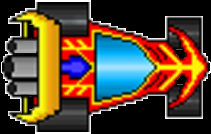
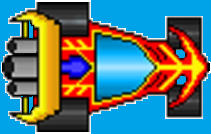
new cars images and change_password functionality

diff --git a/classes_menu.py b/classes_menu.py
@@ -283,7 +283,7 @@ class Exit:
 
 
 class Create_Account:
-    def __init__(self, diretorio, superficie):
+    def __init__(self, diretorio, superficie, change=False):
         self.image_nome = pygame.image.load(diretorio)
         self.effects = (False, True)
         self.efeito = [pygame.image.load(f"images/menu/effects/2/{i+1}.png") for i in range(4)]
@@ -294,12 +294,20 @@ class Create_Account:
         self.inputs = [[], []]
         self.frame_atual = 0
         self.user = User()
+        self.change = change
+        if change:
+            self.user.get_active_user()
 
     def draw_buttons(self) -> None:
         coordenadas = {0: (325, 485), 1: (558, 485)}
         coo = coordenadas[self.codigo_ativo_x]
         self.screen.blit(self.efeito[int(self.frame_atual)], (coo[0]-5, coo[1]-10))
-        self.screen.blit(pygame.image.load(f"images/menu/buttons/5/{self.codigo_ativo_x+1}.png"), (coo[0]+13, coo[1]+10))
+        if self.change:
+            self.screen.blit(pygame.image.load(f"images/menu/buttons/9/{self.codigo_ativo_x + 1}.png"),
+                             (coo[0] + 13, coo[1] + 10))
+        else:
+            self.screen.blit(pygame.image.load(f"images/menu/buttons/5/{self.codigo_ativo_x+1}.png"),
+                             (coo[0]+13, coo[1]+10))
         self.frame_atual += 0.2
         if self.frame_atual > 3:
             self.frame_atual = 0
@@ -326,19 +334,30 @@ class Create_Account:
         f.criar_pasta(name)
 
     def validate_user_information(self) -> bool:
-        name, password = "".join(self.inputs[0]), "".join(self.inputs[1])
-        if name in f.lista_utilizadores():
-            f.show_error_message(self.screen, 1)
-            return False
-        elif len(self.inputs[0]) == 0:
-            f.show_error_message(self.screen, 2)
-            return False
-        elif len(self.inputs[1]) == 0:
-            f.show_error_message(self.screen, 3)
-            return False
-        elif " " in self.inputs[0] or " " in self.inputs[1]:
-            f.show_error_message(self.screen, 4)
-            return False
+        first, second = "".join(self.inputs[0]), "".join(self.inputs[1])
+        if self.change:
+            if first != self.user.password:
+                f.show_error_message(self.screen, 7)
+                return False
+            elif len(self.inputs[1]) == 0:
+                f.show_error_message(self.screen, 3)
+                return False
+            elif " " in self.inputs[1]:
+                f.show_error_message(self.screen, 4)
+                return False
+        else:
+            if first in f.lista_utilizadores():
+                f.show_error_message(self.screen, 1)
+                return False
+            elif len(self.inputs[0]) == 0:
+                f.show_error_message(self.screen, 2)
+                return False
+            elif len(self.inputs[1]) == 0:
+                f.show_error_message(self.screen, 3)
+                return False
+            elif " " in self.inputs[0] or " " in self.inputs[1]:
+                f.show_error_message(self.screen, 4)
+                return False
         return True
 
     def manage_buttons(self, keys, event):
@@ -353,14 +372,22 @@ class Create_Account:
         elif keys[pygame.K_KP_ENTER] or keys[pygame.K_RETURN]:
             if self.effects[self.codigo_ativo_x]:
                 if self.validate_user_information():
-                    self.user.name = "".join(self.inputs[0])
-                    self.user.password = "".join(self.inputs[1])
-                    self.create_account()
-                    self.user.save_info()
-                    self.user.turn_active()
-                    f.show_succes_message(self.screen, 1)
+                    if self.change:
+                        self.user.password = "".join(self.inputs[1])
+                        self.user.save_info()
+                        self.user.turn_active()
+                        f.show_succes_message(self.screen, 4)
+                    else:
+                        self.user.name = "".join(self.inputs[0])
+                        self.user.password = "".join(self.inputs[1])
+                        self.create_account()
+                        self.user.save_info()
+                        self.user.turn_active()
+                        f.show_succes_message(self.screen, 1)
                     return True
                 else:
+                    if self.change:
+                        return "change_password"
                     return "new"
             return False
         elif keys[pygame.K_TAB]:
@@ -373,7 +400,7 @@ class Create_Account:
             self.inputs[self.codigo_ativo_y].append(event.unicode)
 
     def refresh(self) -> None:
-        self.screen.blit(self.image_nome, (2, 0))
+        self.screen.blit(self.image_nome, (0, 0))
         self.draw_buttons()
         self.screen.blit(pygame.image.load("images/menu/interfaces/navigation/navigation3.png"), (355, 620))
         f.write_name_passw(self.screen, self.inputs[0], self.inputs[1], self.codigo_ativo_y, self.hide)

diff --git a/link_functions.py b/link_functions.py
@@ -1,7 +1,10 @@
+from typing import List
+
 import classes_menu as cm
 import loops as lp
 import pygame
 import funcoes as f
+from classes_menu import Button
 
 
 def exit_game(screen):
@@ -24,10 +27,12 @@ def exit_tutorial(screen):
 
 # Main Menu
 def main_menu(screen):
-    posicx_main = (1080 - 260)//2
-    posicy_main = [y for y in range(150,600,150)]
+    posicx_main = (1080 - 260) // 2
+    posicy_main = [y for y in range(150, 600, 150)]
     effects_main = ["choose", "new", "exit1"]
-    butns_main = [cm.Button(posicx_main, y, f"images/menu/buttons/1/{posicy_main.index(y)+1}.png", effects_main[posicy_main.index(y)], posicy_main.index(y)) for y in posicy_main[:len(effects_main)]]
+    butns_main = [cm.Button(posicx_main, y, f"images/menu/buttons/1/{posicy_main.index(y) + 1}.png",
+                            effects_main[posicy_main.index(y)], posicy_main.index(y)) for y in
+                  posicy_main[:len(effects_main)]]
     m_m = cm.Menu(butns_main, f"images/menu/interfaces/Main/main menu.png", screen)
     return m_m.display_menu()
 
@@ -46,23 +51,27 @@ def choose_user(screen):
 
 # Game Menu
 def game_menu(screen):
-    posicx_game = (1080 - 260)//2
+    posicx_game = (1080 - 260) // 2
     posicy_game = [y for y in range(107, 600, 80)]
     effects_game = ["story", "mai", "mpart", "tutorial", "manage", "exit2"]
-    butns_game = [cm.Button(posicx_game, y, f"images/menu/buttons/2/{posicy_game.index(y)+1}.png", effects_game[posicy_game.index(y)], posicy_game.index(y)) for y in posicy_game[:len(effects_game)]]
+    butns_game = [cm.Button(posicx_game, y, f"images/menu/buttons/2/{posicy_game.index(y) + 1}.png",
+                            effects_game[posicy_game.index(y)], posicy_game.index(y)) for y in
+                  posicy_game[:len(effects_game)]]
     user = cm.User()
     user.get_active_user()
     user.get_texts()
     g_m = cm.Menu(butns_game, f"images/menu/interfaces/Main/game menu.png", screen, user)
-    #f.erase_active_user_data()
+    # f.erase_active_user_data()
     return g_m.display_menu()
 
 
 def tutorial(screen):
-    posicx_tutorial = (1080 - 260)//2
+    posicx_tutorial = (1080 - 260) // 2
     posicy_tutorial = [y for y in range(110, 600, 100)]
     effects_tutorial = ["comands", "t_save", "enemies", "level_up", "exit3"]
-    butns_tutorial = [cm.Button(posicx_tutorial, y, f"images/menu/buttons/4/{posicy_tutorial.index(y)+1}.png", effects_tutorial[posicy_tutorial.index(y)], posicy_tutorial.index(y)) for y in posicy_tutorial[:len(effects_tutorial)]]
+    butns_tutorial = [cm.Button(posicx_tutorial, y, f"images/menu/buttons/4/{posicy_tutorial.index(y) + 1}.png",
+                                effects_tutorial[posicy_tutorial.index(y)], posicy_tutorial.index(y)) for y in
+                      posicy_tutorial[:len(effects_tutorial)]]
     user = cm.User()
     user.get_active_user()
     user.get_texts()
@@ -81,6 +90,7 @@ def create_new_account(screen):
     elif effect:
         return "continue"
     return "main_menu"
+
 
 def display_story(screen):
     pass
@@ -103,18 +113,18 @@ def game_parts(screen):
 
 
 def manage_account(screen):
-    posicx = (1080 - 260)//2
+    posicx = (1080 - 260) // 2
     posicy = [y for y in range(155, 600, 70)]
     effects = ["", "", "add_text", "change_password", "elmnt_account", "exit3"]
-    butns = [cm.Button(posicx, y+20, f"images/menu/buttons/8/{posicy.index(y)+1}.png",
-                                effects[posicy.index(y)], posicy.index(y))
-                      for y in posicy[:len(effects)]]
+    butns = [cm.Button(posicx, y + 20, f"images/menu/buttons/8/{posicy.index(y) + 1}.png",
+                       effects[posicy.index(y)], posicy.index(y))
+             for y in posicy[:len(effects)]]
     posicx -= 55
-    button1 = cm.Button2(posicx, 130, f"images/menu/buttons/8/{0+1}.png",
-                                effects[0], 0, 0)
-    button2 = cm.Button2(posicx, 230, f"images/menu/buttons/8/{1+1}.png",
-                                effects[1], 1, 1)
-    butns = [button1, button2]+butns[2:]
+    button1 = cm.Button2(posicx, 130, f"images/menu/buttons/8/{0 + 1}.png",
+                         effects[0], 0, 0)
+    button2 = cm.Button2(posicx, 230, f"images/menu/buttons/8/{1 + 1}.png",
+                         effects[1], 1, 1)
+    butns = [button1, button2] + butns[2:]
     user = cm.User()
     user.get_active_user()
     user.get_texts()
@@ -131,6 +141,19 @@ def delete_account(screen):
         if verification_password == "main_menu":
             f.delete_user_account(line[0])
         return verification_password
+    return "manage"
+
+
+def change_password(screen):
+    if len(f.lista_utilizadores()) == 7:
+        f.show_error_message(screen, 6)
+        return "main_menu"
+    cp = cm.Create_Account("images/menu/interfaces/Main/change password.png", screen, True)
+    effect = cp.display_menu()
+    if effect == "change_password":
+        return effect
+    elif effect:
+        return "manage"
     return "manage"
 
 

diff --git a/main.py b/main.py
@@ -8,8 +8,8 @@ pygame.display.set_caption("Fast and Curious-Beta")
 
 efeitos = {"exit1": lf.exit_game, "main_menu": lf.main_menu, "continue": lf.game_menu, "new": lf.create_new_account,
            "exit2": lf.exit_game_menu, "tutorial": lf.tutorial, "exit3": lf.game_menu, "story": lf.display_story,
-           "mai": lf.game_ai, "mpart": lf.game_parts, "save": lf.tutorial_s, "level_up": lf.tutorial_lu,
-           "enemy": lf.tutorial_e, "controls": lf.tutorial_c, "choose": lf.choose_user,
+           "mai": lf.game_ai, "change_password": lf.change_password, "save": lf.tutorial_s, "level_up": lf.tutorial_lu,
+           "enemy": lf.tutorial_e, "controls": lf.tutorial_c, "choose": lf.choose_user, "mpart": lf.game_parts,
            "enter_password": lf.enter_password, "manage": lf.manage_account, "elmnt_account": lf.delete_account
            }
 
